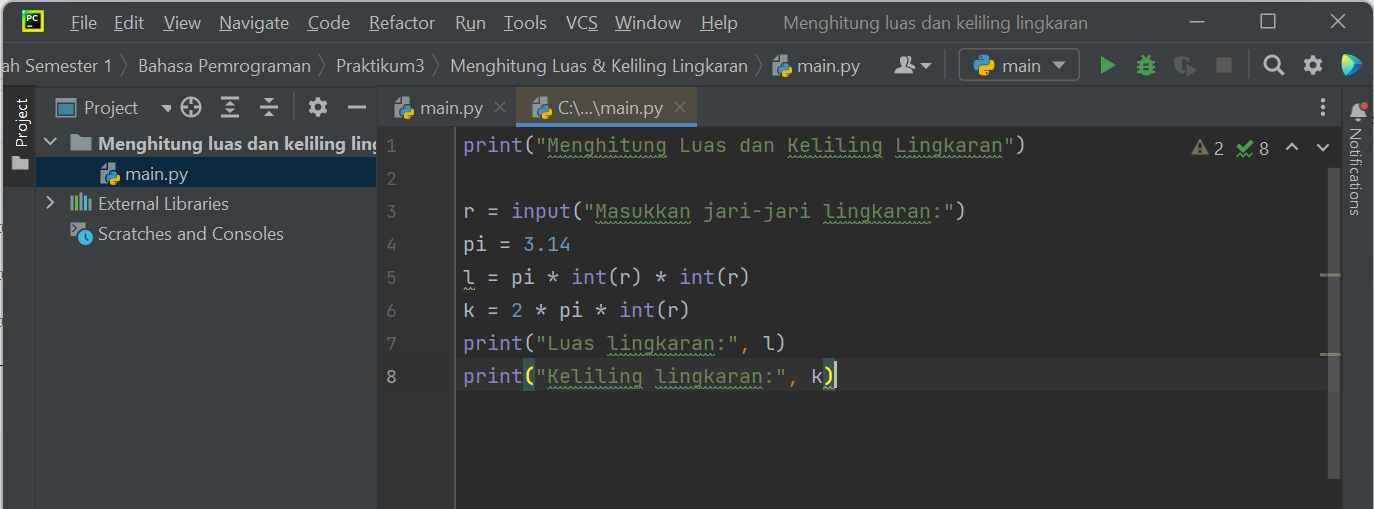
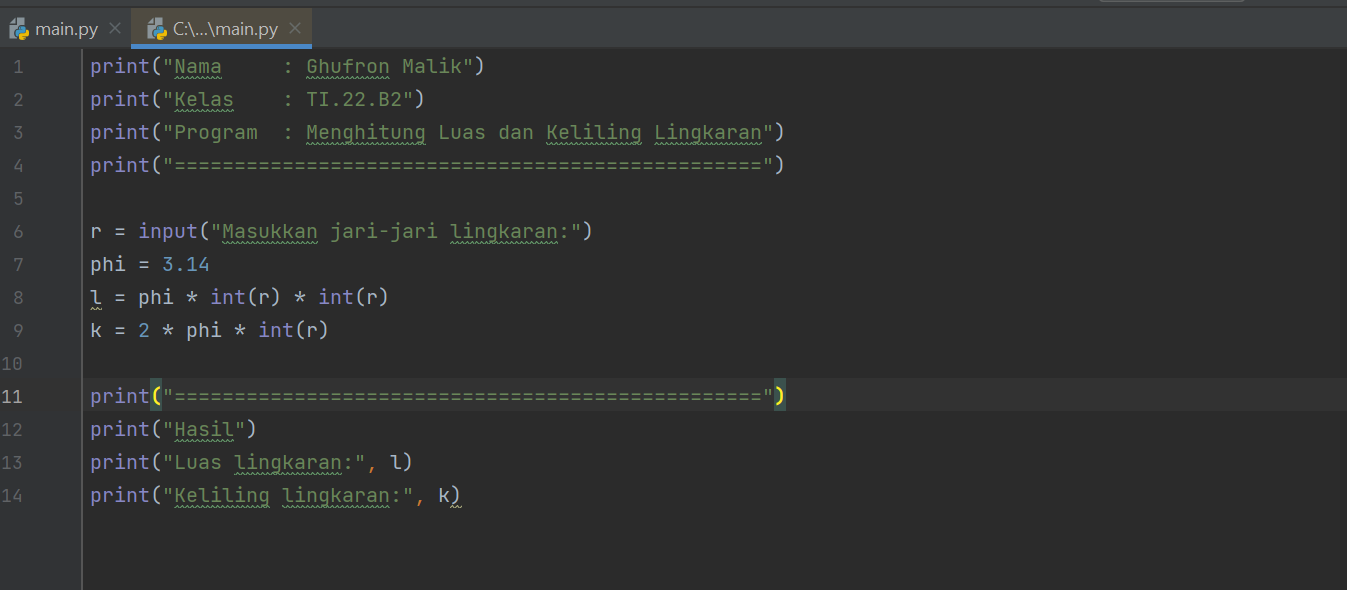
menambahkan image

diff --git a/Menghitung Luas & Keliling Lingkaran/main.py b/Menghitung Luas & Keliling Lingkaran/main.py
@@ -1,8 +1,14 @@
-print("Menghitung Luas dan Keliling Lingkaran")
+print("Nama     : Ghufron Malik")
+print("Kelas    : TI.22.B2")
+print("Program  : Menghitung Luas dan Keliling Lingkaran")
+print("=================================================")
 
 r = input("Masukkan jari-jari lingkaran:")
-pi = 3.14
-l = pi * int(r) * int(r)
-k = 2 * pi * int(r)
+phi = 3.14
+l = phi * int(r) * int(r)
+k = 2 * phi * int(r)
+
+print("=================================================")
+print("Hasil")
 print("Luas lingkaran:", l)
 print("Keliling lingkaran:", k)
